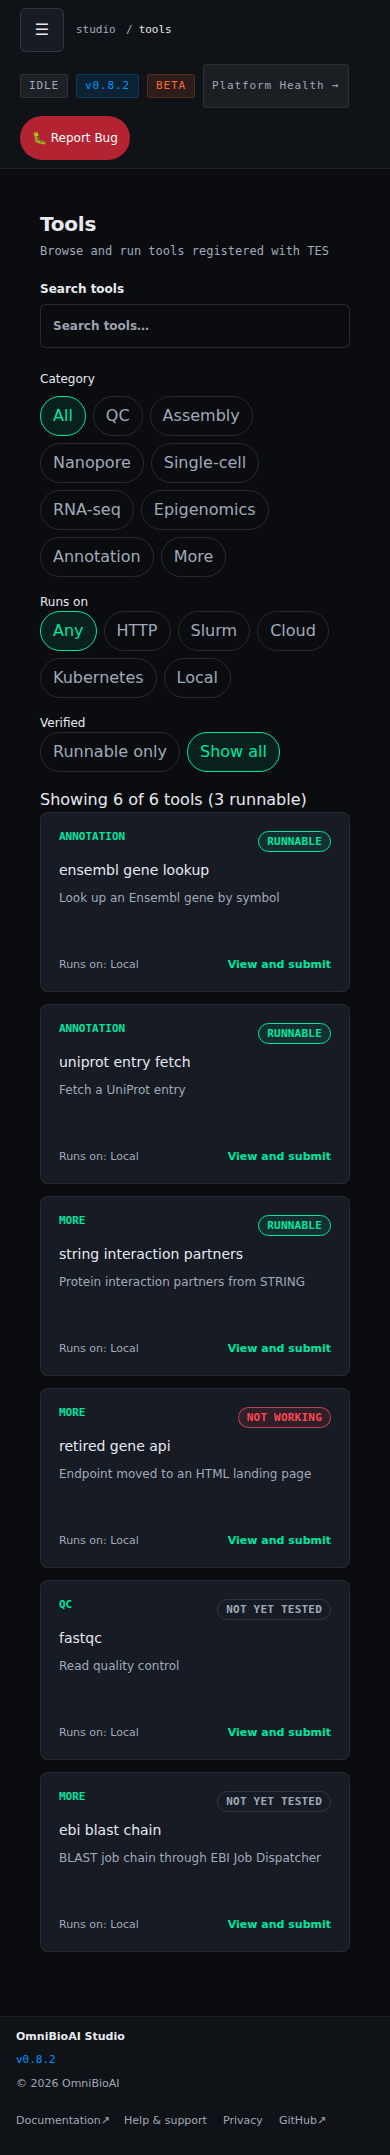
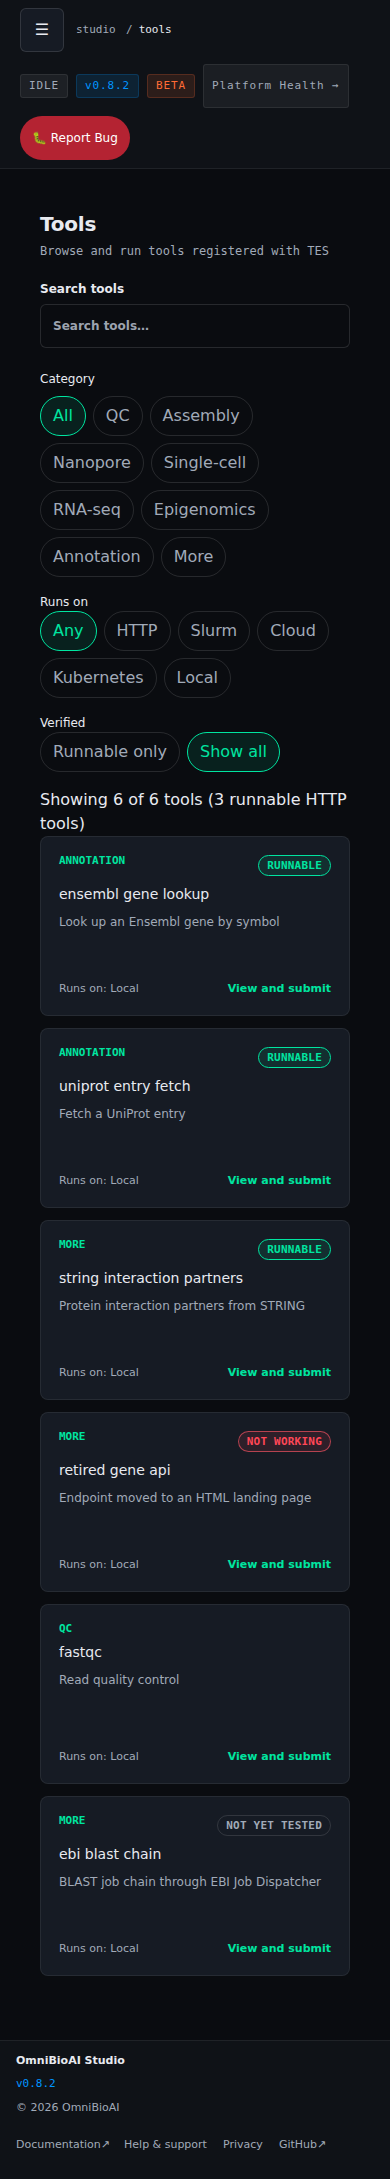
feat(tools): non-HTTP tools listed without a badge; home tile counts runnable HTTP tools
TES (#62) now reports out_of_scope for Slurm and cloud tools, which the
end-to-end run never exercises. The Tools page lists them by default with
no badge; only HTTP tools known not to run or never tested are hidden
behind Show all. The status line says how many runnable HTTP tools there
are and how many HTTP tools are hidden; the home tile reads
"<n> runnable HTTP tools". Tests, browser test and review images updated.

diff --git a/tests/ui/tools-verification.test.jsx b/tests/ui/tools-verification.test.jsx
@@ -12,7 +12,7 @@ const TOOLS = [
   { tool_id: "ensembl_lookup", description: "Gene lookup", http: { url: "https://x" },
     verification: { status: "runnable", tested_at: "2026-11-09", reason: null, run_id: "full_run_20261109" } },
   { tool_id: "fastqc", description: "Read quality control", slurm: { image: "x.sif" },
-    verification: { status: "not_yet_tested", tested_at: null, reason: "end-to-end verification covers HTTP tools only", run_id: null } },
+    verification: { status: "out_of_scope", tested_at: null, reason: "end-to-end verification covers HTTP tools only", run_id: null } },
   { tool_id: "broken_api", description: "Retired endpoint", http: { url: "https://y" },
     verification: { status: "not_working", tested_at: "2026-11-09", reason: "upstream HTTP 404 not found", run_id: "full_run_20261109" } },
   { tool_id: "legacy_tool", description: "No verification block at all", http: { url: "https://z" } },
@@ -33,7 +33,9 @@ describe("toolVerification", () => {
   it("maps the TES verification block to a badge with a tooltip", () => {
     expect(toolVerification(TOOLS[0])).toMatchObject({ status: "runnable", label: "Runnable", testedAt: "2026-11-09", title: "Tested end to end on 2026-11-09" });
     expect(toolVerification(TOOLS[2])).toMatchObject({ status: "not_working", label: "Not working", title: "Failed end to end on 2026-11-09: upstream HTTP 404 not found" });
-    expect(toolVerification(TOOLS[1])).toMatchObject({ status: "not_yet_tested", label: "Not yet tested", title: "end-to-end verification covers HTTP tools only" });
+    expect(toolVerification(TOOLS[1])).toMatchObject({ status: "out_of_scope", label: null, listedByDefault: true, title: "end-to-end verification covers HTTP tools only" });
+    expect(toolVerification(TOOLS[0]).listedByDefault).toBe(true);
+    expect(toolVerification(TOOLS[2]).listedByDefault).toBe(false);
   });
 
   it("treats a missing or unknown block as not yet tested", () => {
@@ -44,49 +46,59 @@ describe("toolVerification", () => {
 });
 
 describe("Tools page verification badges", () => {
-  it("shows only runnable tools by default, with the tested-on tooltip", async () => {
+  it("lists runnable HTTP tools and out-of-scope tools by default; badge only for HTTP tools", async () => {
     render(<Tools />);
     await screen.findByText("ensembl lookup");
-    expect(screen.getByText("Showing 1 of 1 runnable tools")).toBeInTheDocument();
-    const badge = screen.getByText("Runnable");
-    expect(badge).toHaveAttribute("title", "Tested end to end on 2026-11-09");
-    expect(screen.queryByText("fastqc")).not.toBeInTheDocument();
+    expect(screen.getByText("Showing 2 of 2 tools (1 runnable HTTP tools; 2 not working or not yet tested hidden)")).toBeInTheDocument();
+    expect(screen.getByText("Runnable")).toHaveAttribute("title", "Tested end to end on 2026-11-09");
+    expect(screen.getByText("fastqc")).toBeInTheDocument();          // Slurm tool: listed, no badge
+    expect(screen.queryByText("Not yet tested")).not.toBeInTheDocument();
+    expect(document.querySelectorAll(".tool-card__badge")).toHaveLength(1);
     expect(screen.queryByText("broken api")).not.toBeInTheDocument();
+    expect(screen.queryByText("legacy tool")).not.toBeInTheDocument();
     expect(screen.getByRole("button", { name: "Runnable only" })).toHaveAttribute("aria-pressed", "true");
   });
 
-  it("Show all reveals the other tools with their badges", async () => {
+  it("Show all reveals the hidden HTTP tools with their badges", async () => {
     render(<Tools />);
     await screen.findByText("ensembl lookup");
     fireEvent.click(screen.getByRole("button", { name: "Show all" }));
-    expect(screen.getByText("Showing 4 of 4 tools (1 runnable)")).toBeInTheDocument();
+    expect(screen.getByText("Showing 4 of 4 tools (1 runnable HTTP tools)")).toBeInTheDocument();
     expect(screen.getByText("broken api")).toBeInTheDocument();
     expect(screen.getByText("Not working")).toHaveAttribute("title", "Failed end to end on 2026-11-09: upstream HTTP 404 not found");
-    expect(screen.getAllByText("Not yet tested")).toHaveLength(2);
+    expect(screen.getAllByText("Not yet tested")).toHaveLength(1);   // legacy_tool only; fastqc is out of scope
+    expect(document.querySelectorAll(".tool-card__badge")).toHaveLength(3);
     fireEvent.click(screen.getByRole("button", { name: "Runnable only" }));
-    expect(screen.getByText("Showing 1 of 1 runnable tools")).toBeInTheDocument();
+    expect(screen.getByText(/Showing 2 of 2 tools/)).toBeInTheDocument();
   });
 
-  it("explains an empty default view when nothing is verified yet", async () => {
-    tesApiFetch.mockImplementation(() => Promise.resolve([TOOLS[1], TOOLS[3]]));
+  it("explains an empty default view when no HTTP tool is verified yet", async () => {
+    tesApiFetch.mockImplementation(() => Promise.resolve([TOOLS[2], TOOLS[3]]));
     render(<Tools />);
-    await screen.findByText("Showing 0 of 0 runnable tools");
-    expect(screen.getByText(/No tool has passed an end-to-end run yet/)).toBeInTheDocument();
+    await screen.findByText("Showing 0 of 0 tools (0 runnable HTTP tools; 2 not working or not yet tested hidden)");
+    expect(screen.getByText(/No HTTP tool has passed an end-to-end run yet/)).toBeInTheDocument();
     fireEvent.click(screen.getByRole("button", { name: "Show all" }));
     expect(screen.getByText("legacy tool")).toBeInTheDocument();
+  });
+
+  it("a TES without any verification block lists nothing by default except non-HTTP tools", async () => {
+    tesApiFetch.mockImplementation(() => Promise.resolve([{ tool_id: "fastqc", slurm: {} }, { tool_id: "ensembl_lookup", http: {} }]));
+    render(<Tools />);
+    await screen.findByText(/Showing 0 of 0 tools/);   // no block at all: both not_yet_tested, both hidden
+    expect(screen.getByText(/No HTTP tool has passed/)).toBeInTheDocument();
   });
 });
 
 describe("Home runnable tool count", () => {
   it("asks TES for runnable tools only and says so", async () => {
     render(<Home currentUser={{ email: "ada@example.test" }} />);
-    await waitFor(() => expect(screen.getByText("1 runnable tool")).toBeInTheDocument());
+    await waitFor(() => expect(screen.getByText("1 runnable HTTP tool")).toBeInTheDocument());
     expect(tesApiFetch).toHaveBeenCalledWith("/api/tools?status=runnable", expect.anything());
   });
 
   it("formats a large runnable count", async () => {
     tesApiFetch.mockImplementation(path => Promise.resolve(path === "/api/tools?status=runnable" ? Array.from({ length: 803 }, (_, i) => ({ tool_id: `t${i}` })) : []));
     render(<Home currentUser={{ email: "ada@example.test" }} />);
-    await waitFor(() => expect(screen.getByText("803 runnable tools")).toBeInTheDocument());
+    await waitFor(() => expect(screen.getByText("803 runnable HTTP tools")).toBeInTheDocument());
   });
 });

diff --git a/src/ui/pages/Tools.jsx b/src/ui/pages/Tools.jsx
@@ -8,10 +8,14 @@ export const TOOL_CATEGORIES = ["QC", "Assembly", "Nanopore", "Single-cell", "RN
 export const TOOL_BACKENDS = ["Any", "HTTP", "Slurm", "Cloud", "Kubernetes"];
 
 // End-to-end verification status, as served by TES on /api/tools ("verification" block).
+// HTTP tools are runnable / not_working / not_yet_tested; non-HTTP tools (Slurm, cloud)
+// are out_of_scope: the end-to-end run does not exercise them, so they get no badge
+// and are always listed.
 export const VERIFICATION = {
   runnable: { label: "Runnable", className: "tool-card__badge--runnable" },
   not_working: { label: "Not working", className: "tool-card__badge--not-working" },
   not_yet_tested: { label: "Not yet tested", className: "tool-card__badge--not-yet-tested" },
+  out_of_scope: { label: null, className: null },
 };
 
 export function toolVerification(tool) {
@@ -21,8 +25,11 @@ export function toolVerification(tool) {
   const reason = typeof block.reason === "string" && block.reason ? block.reason : null;
   const title = status === "runnable" ? `Tested end to end on ${testedAt || "an unknown date"}`
     : status === "not_working" ? `Failed end to end${testedAt ? ` on ${testedAt}` : ""}${reason ? `: ${reason}` : ""}`
-      : reason || "Not yet run end to end";
-  return { status, label: VERIFICATION[status].label, className: VERIFICATION[status].className, testedAt, reason, title };
+      : status === "out_of_scope" ? (reason || "Not covered by end-to-end verification")
+        : reason || "Not yet run end to end";
+  // listedByDefault: hidden by default only when an HTTP tool is known not to run or has never been tested.
+  return { status, label: VERIFICATION[status].label, className: VERIFICATION[status].className, testedAt, reason, title,
+    listedByDefault: status === "runnable" || status === "out_of_scope" };
 }
 
 export function toolRunsTemporarilyUnavailable(config = globalThis.window?.__OMNIBIOAI_CONFIG__) {
@@ -85,9 +92,10 @@ export default function Tools({ initialQuery = "", onOpenJobs }) {
   const cards = useMemo(() => tools.map(toolPresentation), [tools]);
   const backendOptions = cards.some(tool => tool.backends.includes("Local")) ? [...TOOL_BACKENDS, "Local"] : TOOL_BACKENDS;
   const runnableCount = cards.filter(tool => tool.verification.status === "runnable").length;
+  const hiddenCount = cards.filter(tool => !tool.verification.listedByDefault).length;
   const visible = cards.filter(tool => {
     const matchesQuery = !query.trim() || `${tool.name} ${tool.description}`.toLowerCase().includes(query.trim().toLowerCase());
-    const matchesStatus = showAll || tool.verification.status === "runnable";
+    const matchesStatus = showAll || tool.verification.listedByDefault;
     return matchesStatus && matchesQuery && (category === "All" || tool.category === category) && (backend === "Any" || tool.backends.includes(backend));
   });
 
@@ -110,12 +118,12 @@ export default function Tools({ initialQuery = "", onOpenJobs }) {
     </div></div>
     {loading ? <p role="status">Loading tools…</p> : error ? <p role="alert">{error}</p> : <>
       <p role="status">{showAll
-        ? `Showing ${visible.length} of ${cards.length} tools (${runnableCount} runnable)`
-        : `Showing ${visible.length} of ${runnableCount} runnable tools`}</p>
-      {!showAll && runnableCount === 0 && cards.length > 0 && <p className="tools-empty-hint">No tool has passed an end-to-end run yet. Choose “Show all” to see the {cards.length} registered tools.</p>}
+        ? `Showing ${visible.length} of ${cards.length} tools (${runnableCount} runnable HTTP tools)`
+        : `Showing ${visible.length} of ${cards.length - hiddenCount} tools (${runnableCount} runnable HTTP tools; ${hiddenCount} not working or not yet tested hidden)`}</p>
+      {!showAll && runnableCount === 0 && hiddenCount > 0 && <p className="tools-empty-hint">No HTTP tool has passed an end-to-end run yet. Choose “Show all” to see the {hiddenCount} hidden HTTP tools.</p>}
       <div className="tool-card-grid">{visible.map(tool => <article className="tool-card" key={tool.id}>
         <div className="tool-card__labels"><span className="tool-card__category">{tool.category}</span>
-          <span className={`tool-card__badge ${tool.verification.className}`} title={tool.verification.title} aria-label={`${tool.verification.label}: ${tool.verification.title}`}>{tool.verification.label}</span></div>
+          {tool.verification.label && <span className={`tool-card__badge ${tool.verification.className}`} title={tool.verification.title} aria-label={`${tool.verification.label}: ${tool.verification.title}`}>{tool.verification.label}</span>}</div>
         <h2>{tool.name}</h2><p>{tool.description}</p>
         <div className="tool-card__footer"><span>Runs on: {tool.backends.join(", ")}</span><button type="button" onClick={() => onOpenJobs?.(tool.id)}>View and submit</button></div>
       </article>)}</div>

diff --git a/src/ui/pages/Home.jsx b/src/ui/pages/Home.jsx
@@ -47,7 +47,7 @@ export default function Home({ currentUser }) {
       <form role="search" onSubmit={submitSearch}><label htmlFor="global-search">Search tools, workflows, and data</label><div><input id="global-search" value={search} onChange={event => setSearch(event.target.value)} placeholder="Search tools, workflows, and data…" /><button type="submit">Search</button></div><small>Search currently opens the Tools catalog; no combined search endpoint is available.</small></form>
     </header>
     <section><div className="home-section-heading"><div><span>Quick actions</span><h2>Start here</h2></div></div><div className="start-card-grid">
-      {START.map(([label, description, destination]) => <button key={label} type="button" onClick={() => navigate(destination)}><span>{label}</span><small>{description}</small>{label === "Run a tool" && <strong>{toolCount === null ? `${runs.length} recent runs` : `${toolCount.toLocaleString("en-US")} runnable ${toolCount === 1 ? "tool" : "tools"}`}</strong>}</button>)}
+      {START.map(([label, description, destination]) => <button key={label} type="button" onClick={() => navigate(destination)}><span>{label}</span><small>{description}</small>{label === "Run a tool" && <strong>{toolCount === null ? `${runs.length} recent runs` : `${toolCount.toLocaleString("en-US")} runnable HTTP ${toolCount === 1 ? "tool" : "tools"}`}</strong>}</button>)}
     </div></section>
     <section><div className="home-section-heading"><div><span>Your activity</span><h2>Recent jobs</h2></div><button type="button" onClick={() => navigate({ nav: 9 })}>View all</button></div>
       {jobsUnavailable ? <p role="alert">Recent jobs are unavailable.</p> : recent.length ? <div className="recent-jobs">{recent.map(run => <button type="button" key={run.run_id} onClick={() => navigate({ nav: 9 })}><span><strong>{run.tool_id || "Tool run"}</strong><small>{run.run_id}</small></span><em data-state={run.state}>{run.state || "Unknown"}</em></button>)}</div> : <p>No tool runs yet.</p>}
